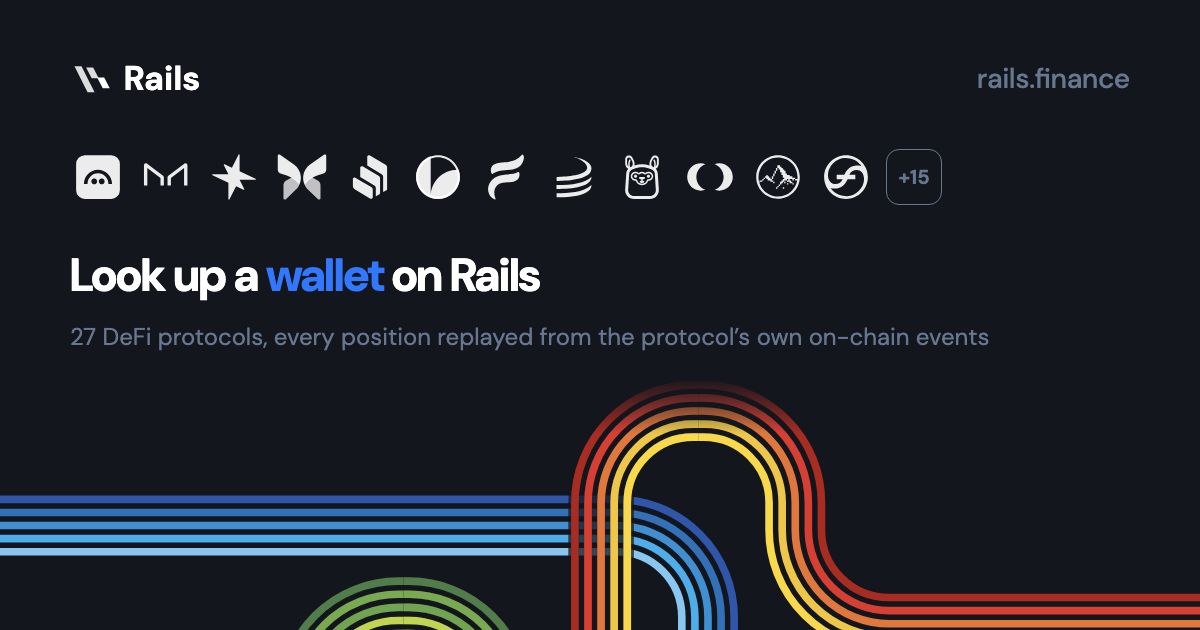
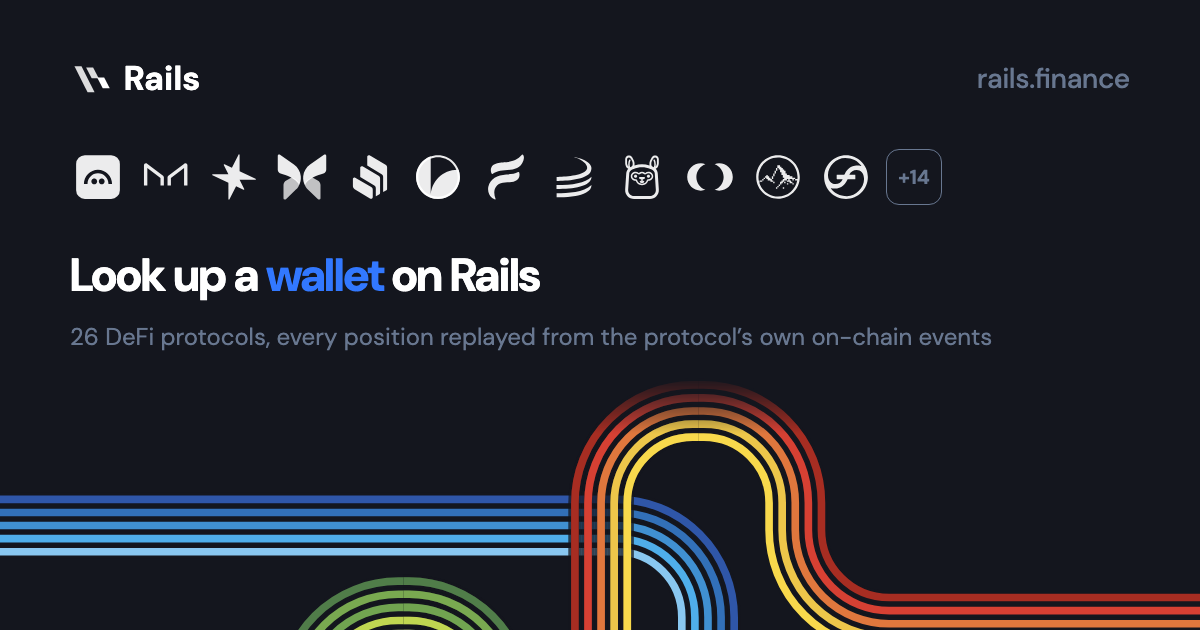
Share card: home.png states the site's protocol count (26)
generate-og imports LAUNCHED_PRODUCTION_PROTOCOL_VERSION_COUNT, the number
app/layout.tsx states, for the headline and the "+N" chip; og and check:og
run under tsx. The served hashed copy moves to home-3a7eee3f.png: the Sky
regeneration had updated home.png alone.

Claude-Session: https://claude.ai/code/session_011mqvEBdzSM7bA8yRnfy5Ge

Changed region(s): [[0.0617, 0.5127, 0.8325, 0.573], [0.74, 0.2714, 0.7708, 0.3016]]

diff --git a/app/layout.tsx b/app/layout.tsx
@@ -132,8 +132,8 @@ export const metadata: Metadata = {
         // image URL, so a regenerated card needs a new URL to be fetched
         // fresh rather than served stale from their cache. Bump the hash
         // (`shasum -a 256 public/og/home.png | cut -c1-8`) whenever
-        // `node scripts/generate-og.mjs` changes this file's bytes.
-        url: "/og/home-eaad142d.png",
+        // `pnpm og` changes this file's bytes.
+        url: "/og/home-3a7eee3f.png",
         width: 1200,
         height: 630,
         alt: `Look up a wallet on Rails: ${PROTOCOL_COUNT} DeFi protocols on ${PRODUCTION_CHAIN_NAMES}, plus Polaris on Sepolia`,
@@ -144,7 +144,7 @@ export const metadata: Metadata = {
     card: "summary_large_image",
     title: SITE_TITLE,
     description: OG_DESCRIPTION,
-    images: ["/og/home-eaad142d.png"],
+    images: ["/og/home-3a7eee3f.png"],
     creator: TWITTER_HANDLE,
     site: TWITTER_HANDLE,
   },

diff --git a/lib/shared/page-metadata.ts b/lib/shared/page-metadata.ts
@@ -73,11 +73,11 @@ export const TWITTER_HANDLE = RAILS_X_AT;
 // Content-hashed: Discord/X/Telegram/Slack cache a link preview by image URL,
 // so a regenerated card needs a new URL to be fetched fresh rather than served
 // stale from their cache. Bump the hash (`shasum -a 256 public/og/home.png |
-// cut -c1-8`) whenever `node scripts/generate-og.mjs` changes that file's
+// cut -c1-8`) whenever `pnpm og` changes that file's
 // bytes — `public/og/home.png` itself stays at its unhashed path too (kept on
 // disk for scripts/verify/verify-share-abuse.mjs's static-file census), and is
 // regenerated in place alongside this hashed copy.
-export const HOME_SHARE_IMAGE = "/og/home-eaad142d.png";
+export const HOME_SHARE_IMAGE = "/og/home-3a7eee3f.png";
 
 /** The Twitter card for a page that sets its own `openGraph` without
  *  `shareMetadata`: the same title and description, on the home share image.
